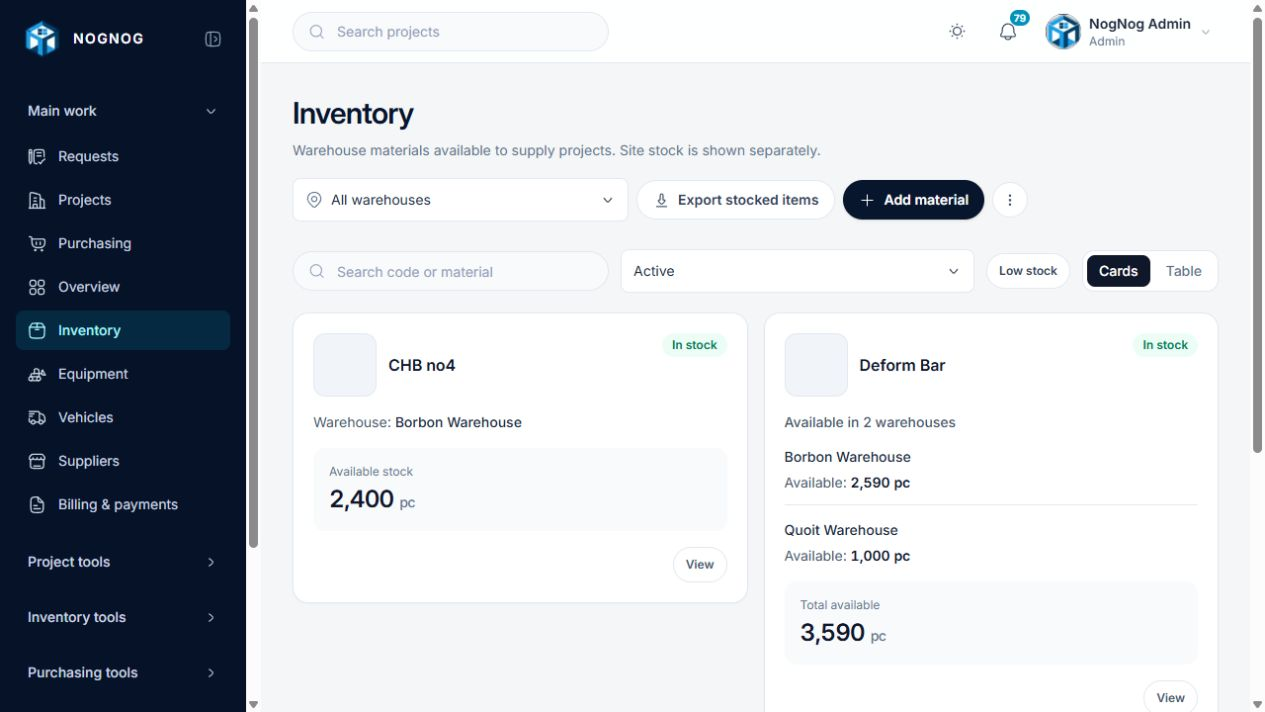
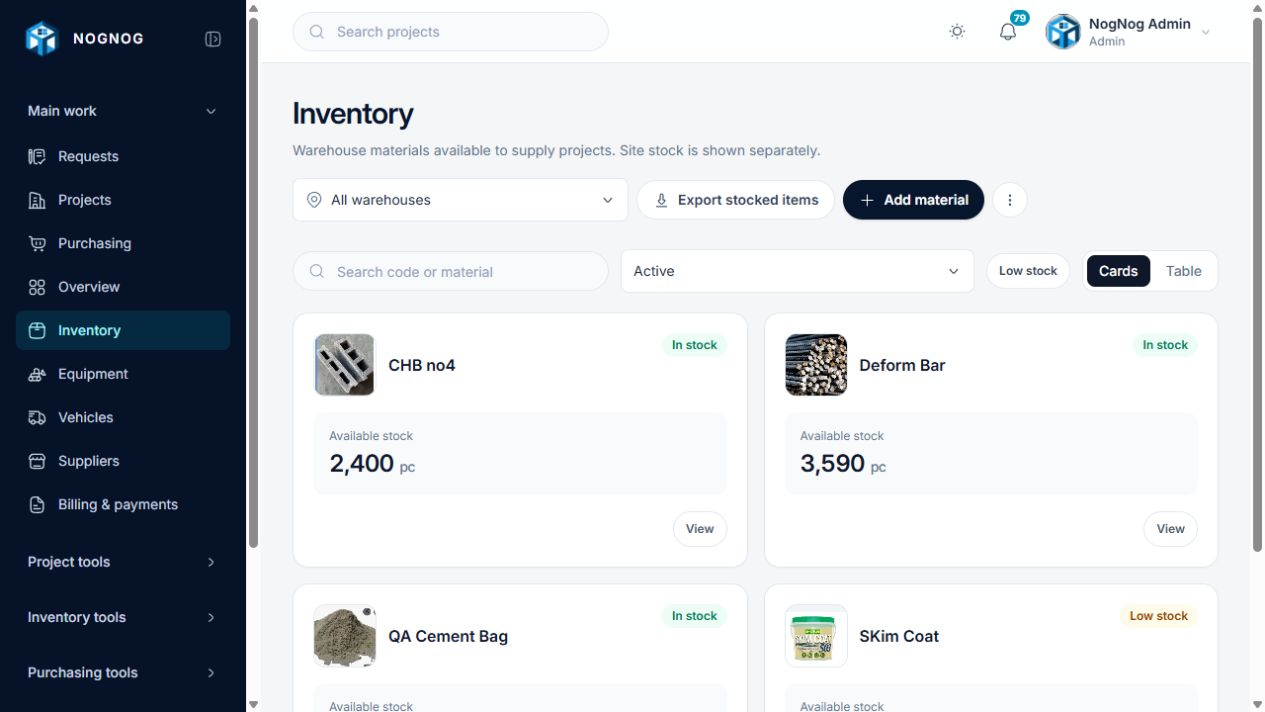
Show only aggregate stock on inventory cards

diff --git a/src/components/inventory/inventory-balance-card.tsx b/src/components/inventory/inventory-balance-card.tsx
@@ -1,21 +1,14 @@
 import { RecordActionIcon } from "@/components/ui/record-action-menu";
 
-import { InventoryStockLocations } from "./inventory-stock-locations";
 import { MaterialThumbnail } from "@/components/ui/material-thumbnail";
 
 const quantity = new Intl.NumberFormat("en-PH", { maximumFractionDigits: 4 });
 
-export function InventoryBalanceCard({ name, photo, unit, active = true, location, locationDetail, stockLocations, available, minimum, href, onView, actions }: {
+export function InventoryBalanceCard({ name, photo, unit, active = true, available, minimum, href, onView, actions }: {
   name: string;
-  sku: string;
   photo?: string | null;
   unit: string;
   active?: boolean;
-  location: string;
-  locationDetail?: string;
-  stockLocations?: { id: string; name: string; onHand: number; available: number }[];
-  onHand: number;
-  reserved: number;
   available: number;
   minimum?: number;
   href?: string;
@@ -26,10 +19,7 @@ export function InventoryBalanceCard({ name, photo, unit, active = true, locatio
   const title = <span className="min-w-0"><span className="block break-words text-base font-semibold text-slate-900">{name}</span></span>;
   return <article className="flex min-w-0 flex-col self-start rounded-2xl border border-slate-200 bg-white p-5 shadow-[0_1px_2px_rgba(15,23,42,0.03)]">
     <div className="flex items-start justify-between gap-3"><div className="flex min-w-0 items-center gap-3"><MaterialThumbnail name={name} photo={photo} large />{title}</div><span className={`shrink-0 rounded-full px-2.5 py-1 text-xs font-semibold ${!active ? "bg-slate-100 text-slate-600" : low ? "bg-amber-50 text-amber-800" : "bg-emerald-50 text-emerald-700"}`}>{!active ? "Inactive" : available <= 0 ? "Empty" : low ? "Low stock" : "In stock"}</span></div>
-    {!stockLocations?.length && <div className="mt-4"><p className="text-xs text-slate-500">Stock location</p><p className="mt-1 break-words text-sm font-medium text-slate-700">{location}</p>{locationDetail && <p className="mt-1 break-words text-sm text-slate-600">{locationDetail}</p>}</div>}
-    {stockLocations && stockLocations.length > 1 && <div className="mt-4"><p className="text-sm font-medium text-slate-600">Available in {stockLocations.length} warehouses</p><InventoryStockLocations stocks={stockLocations} unit={unit} /></div>}
-    {stockLocations?.length === 1 && <p className="mt-4 break-words text-sm text-slate-600">Warehouse: <span className="font-medium text-slate-800">{stockLocations[0].name}</span></p>}
-    <div className="mt-4 rounded-xl bg-slate-50 p-4"><p className="text-xs text-slate-500">{stockLocations && stockLocations.length > 1 ? "Total available" : "Available stock"}</p><p className="mt-1 text-2xl font-semibold tracking-tight text-slate-900 tabular-nums">{quantity.format(available)} <span className="text-sm font-medium text-slate-500">{unit}</span></p></div>
+    <div className="mt-4 rounded-xl bg-slate-50 p-4"><p className="text-xs text-slate-500">Available stock</p><p className="mt-1 text-2xl font-semibold tracking-tight text-slate-900 tabular-nums">{quantity.format(available)} <span className="text-sm font-medium text-slate-500">{unit}</span></p></div>
     {(actions || href || onView) && <div className="mt-4 flex flex-wrap justify-end gap-2">{(href || onView) && <RecordActionIcon label="View" name={name} href={href} onSelect={onView} />}{actions}</div>}
   </article>;
 }

diff --git a/src/app/(workspace)/inventory/page.tsx b/src/app/(workspace)/inventory/page.tsx
@@ -98,7 +98,7 @@ export default async function InventoryPage({ searchParams }: { searchParams: Pr
       ...(user.canViewLaborRates ? [item.stockValue == null ? "Not valued" : Number(item.stockValue).toLocaleString("en-PH", { style: "currency", currency: "PHP" })] : []),
       <RecordViewLink key="view" href={`/materials/${item.material_id}`} name={item.name} />,
     ] }))}>
-    {data.rows.length === 0 ? <section className="mt-5 rounded-xl border border-slate-200 bg-white"><EmptyState title="No materials found" description="Change the search or filters, or add a material." /></section> : <section className="mt-5 grid gap-4 md:grid-cols-2 2xl:grid-cols-3" aria-label="Materials and stock balances">{data.rows.map((item) => <InventoryBalanceCard key={item.material_id} name={item.name} sku={item.code} photo={item.photo_path ? recordPhotoUrl("materials", item.material_id) : undefined} unit={item.unit_symbol} active={item.is_active} location={locationName} stockLocations={!data.selectedLocationId ? item.stockLocations : undefined} onHand={item.quantity_on_hand} reserved={item.reserved_quantity} available={item.available_quantity} minimum={item.minimum_stock_level} href={`/materials/${item.material_id}`} />)}</section>}
+    {data.rows.length === 0 ? <section className="mt-5 rounded-xl border border-slate-200 bg-white"><EmptyState title="No materials found" description="Change the search or filters, or add a material." /></section> : <section className="mt-5 grid gap-4 md:grid-cols-2 2xl:grid-cols-3" aria-label="Materials and stock balances">{data.rows.map((item) => <InventoryBalanceCard key={item.material_id} name={item.name} photo={item.photo_path ? recordPhotoUrl("materials", item.material_id) : undefined} unit={item.unit_symbol} active={item.is_active} available={item.available_quantity} minimum={item.minimum_stock_level} href={`/materials/${item.material_id}`} />)}</section>}
     </RecordListView>
     <HistoryPagination path="/inventory" page={data.page} count={data.count} pageSize={24} filters={pageFilters} />
   </>;

diff --git a/README.md b/README.md
@@ -4,7 +4,7 @@ The company workspace covers project materials, equipment and vehicles, staff at
 
 **Current daily-use guide:** [Staff testing and training](TESTING-GUIDE.md) · [In-app manual topics](src/lib/help/manual.ts) · [Workflow rules](docs/workflow-state-machines.md)
 
-The interface uses one visible action button when a row has one action, and one three-dot menu when it has several. Main work is ordered by role. Stock quantities are shown by their real warehouse; different materials need not exist in the same warehouses. Applied database migration history is retained for safe upgrades.
+The interface uses one visible action button when a row has one action, and one three-dot menu when it has several. Main work is ordered by role. Inventory cards show one available-stock total per material for the selected inventory filter. Warehouse names and per-warehouse quantities are not repeated inside cards. Applied database migration history is retained for safe upgrades.
 
 The dated implementation notes below are historical checkpoints. Current deployment and phone acceptance must be verified separately; source pushes and native bundle exports are not Play Store releases.
 
@@ -14,9 +14,9 @@ These are real application previews, not design mockups. The web images show the
 
 ### Web: inventory
 
-Warehouse quantities stay separate. A material stored in two warehouses shows both locations; a material held in one warehouse shows that location only.
+Each card shows one available-stock total. The page filter controls which stock is included; warehouse breakdowns are not shown inside cards.
 
-![Inventory with stock by warehouse](public/screenshots/inventory.png)
+![Inventory with overall available stock](public/screenshots/inventory.png)
 
 ### Web: project documents
 
